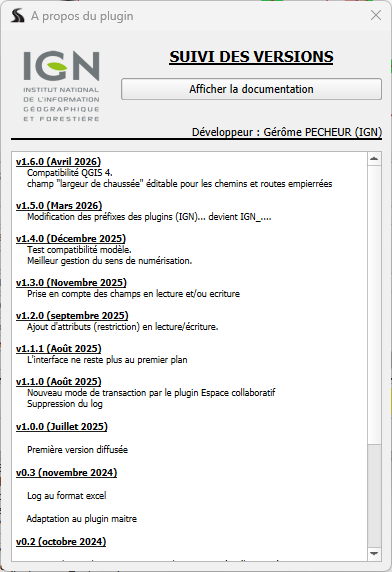
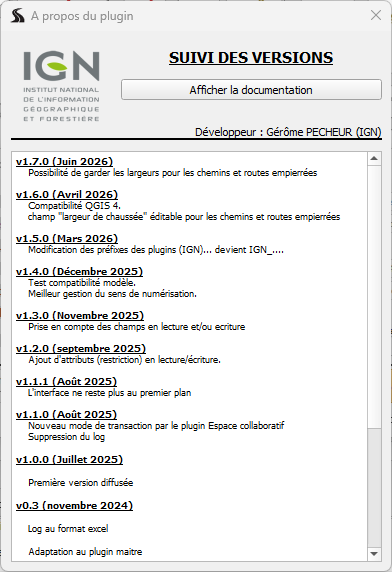
maj doc

diff --git a/docs/index.md b/docs/index.md
@@ -9,7 +9,7 @@
 style="width:1.38681in;height:1.47153in"
 alt="logo_IGN_pour_lettre" /></td>
 <td style="text-align: center;"><p><strong>Manuel utilisateur du plugin
-« contribution directe (route) »</strong></p>
+« IGN Contribution directe BDUni (ROUTE) »</strong></p>
 <p><strong>V1.7.0</strong></p></td>
 </tr>
 <tr>
